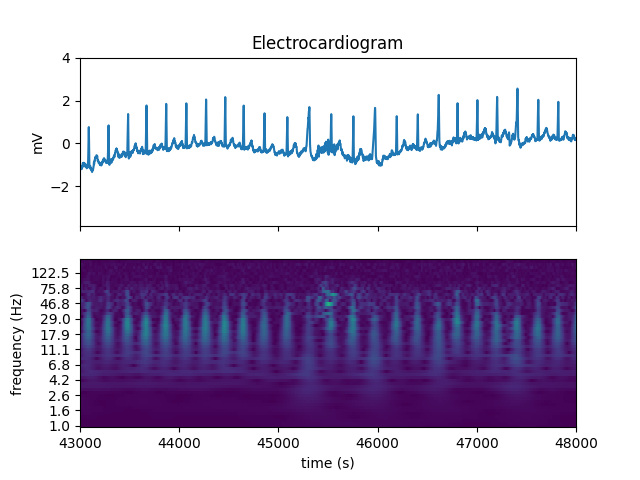
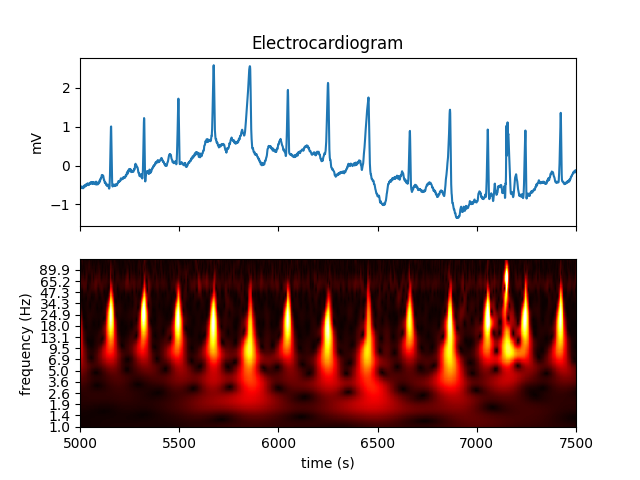
imrpove ecg example

diff --git a/README.md b/README.md
@@ -10,20 +10,20 @@ This is a novel python implementation of the variable Q-transform that was
 developed due to the need for a more accurate and flexible VQT for the use in
 research. It is battle-tested and has been used in a number of research
 projects. <br>
-- Accuracy: The approach is different in that it is a **direct implementation**
+- **Accuracy**: The approach is different in that it is a **direct implementation**
 of a spectrogram  via a Hilbert transformation at each desired frequency. This
 results in an exact computation of the spectrogram and is appropriate for
 research applications where accuracy is critical. The implementation seen in
 `librosa` and `nnAudio` uses recursive downsampling, which can introduce
 artifacts in the spectrogram under certain conditions.
-- Flexibility: The parameters and codebase are less complex than in other
+- **Flexibility**: The parameters and codebase are less complex than in other
 libraries, and the filter bank is fully customizable and exposed to the user.
 Built in plotting of the filter bank makes tuning the parameters easy and
 intuitive.
-- Speed: The backend is written using PyTorch, and allows for GPU acceleration.
-In most cases it is faster than the `librosa` implementation, especially when
-using a GPU. Also, when the `downsample`/`hop_length` parameter is low (<32), it
-is as fast or faster than the `nnAudio` implementation.
+- **Speed**: The backend is written using PyTorch, and allows for GPU acceleration.
+It is faster than the `librosa` implementation, and roughly as fast as the
+`nnAudio` implementation. See the [Speed](#Installation) section for more
+details.
 
 
 ### Installation
@@ -86,13 +86,12 @@ align="right"  style="margin-left: 10px"/>
 This function works differently than the VQT from `librosa` or `nnAudio` in that
 it does not use the recursive downsampling algorithm from [this
 paper](http://academics.wellesley.edu/Physics/brown/pubs/effalgV92P2698-P2701.pdf).
-Instead, it uses a fixed set of filters, and a Hilbert transform to compute the
-analytic signal. It can then take the envelope and downsample. This results in a
-more accurate computation of the spectrogram. The tradeoff is that under certain
-conditions, it can be slower than the recursive downsampling approach, but
-usually not by much. The direct computation approach also results in code that
-is more flexible, easier to understand, and it has fewer constraints on the
-input parameters compared to `librosa` and `nnAudio`.
+Instead, it computes the power at each frequency using either direct- or
+FFT-convolution with a filter bank of complex oscillations, followed by a
+Hilbert transform. This results in a more accurate computation of the same
+spectrogram. The direct computation approach also results in code that is more
+flexible, easier to understand, and it has fewer constraints on the input
+parameters compared to `librosa` and `nnAudio`.
 
 #### What to improve on?
 
@@ -107,6 +106,10 @@ input parameters compared to `librosa` and `nnAudio`.
   - Currently, it is likely that the existing code is close to as fast as it can
     be without sacrificing accuracy, flexibility, or code clarity. All the
     important operations are done in PyTorch (with backends in `C` or `CUDA`).
+  - Recursive downsampling: Under many circumstances (like when `Q_high` is not
+    much greater than `Q_low`), recursive downsampling is fine. Implementing it
+    would be nice just for completeness ([from this
+    paper](http://academics.wellesley.edu/Physics/brown/pubs/effalgV92P2698-P2701.pdf))
   - If we allow for some loss in accuracy:
     - For conv1d approach: Use a strided convolution.
     - For fftconv approach: Downsample using `n=n_samples_downsampled` in `ifft`
@@ -130,20 +133,22 @@ import torch
 import matplotlib.pyplot as plt
 import scipy
 
-data_ecg = scipy.datasets.electrocardiogram()
+data_ecg = scipy.datasets.electrocardiogram()[:10000]
 
-transformer = vqt.VQT(
+my_vqt = vqt.VQT(
     Fs_sample=360,
-    Q_lowF=3,
-    Q_highF=20,
+    Q_lowF=2,
+    Q_highF=4,
     F_min=1,
-    F_max=180,
-    n_freq_bins=55,
+    F_max=120,
+    n_freq_bins=150,
     win_size=1501,
-    downsample_factor=8,
+    window_type='gaussian',
+    downsample_factor=4,
     padding='same',
+    fft_conv=True,
     return_complex=False,
-    plot_pref=True,
+    plot_pref=False,
     progressBar=False,
 )
 
@@ -152,9 +157,13 @@ specs, xaxis, freqs = transformer(data_ecg)
 fig, axs = plt.subplots(nrows=2, ncols=1, sharex=True, )
 axs[0].plot(data_ecg)
 axs[0].title.set_text('Electrocardiogram')
-axs[1].pcolor(xaxis, np.arange(specs[0].shape[0]), specs[0] * (freqs)[:, None])
-axs[1].set_yticks(np.arange(specs[0].shape[0])[::5], np.round(freqs[::5], 1));
-axs[1].set_xlim([43000, 48000])
+axs[1].pcolor(
+    xaxis, np.arange(specs[0].shape[0]), specs[0] * (freqs)[:, None], 
+    vmin=0, vmax=30,
+    cmap='hot',
+)
+axs[1].set_yticks(np.arange(specs[0].shape[0])[::10], np.round(freqs[::10], 1));
+axs[1].set_xlim([5000, 7500])
 axs[0].set_ylabel('mV')
 axs[1].set_ylabel('frequency (Hz)')
 axs[1].set_xlabel('time (s)')
